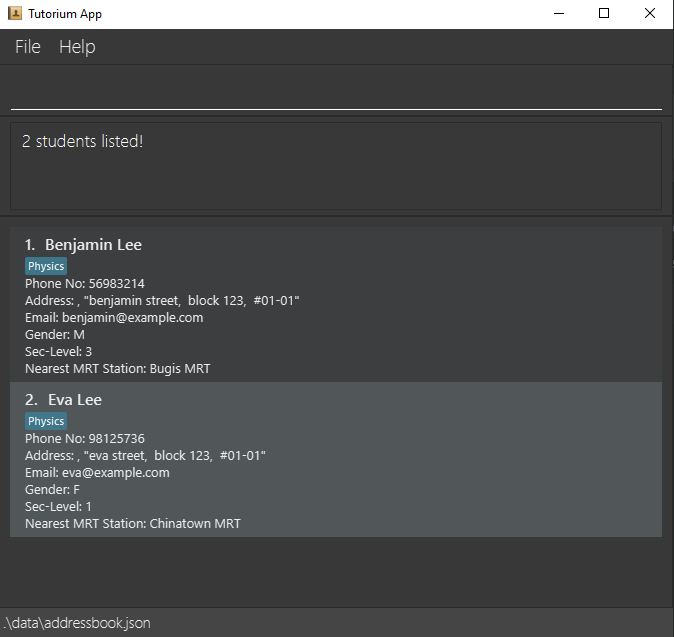
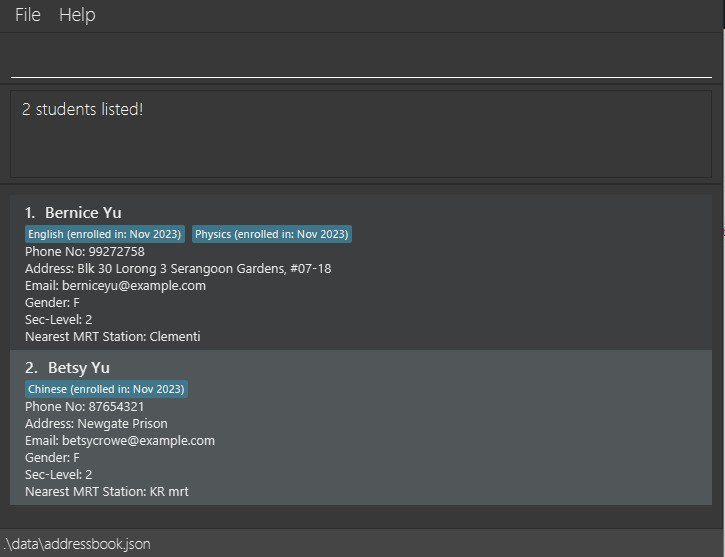
Update UG

Changed region(s): [[0.0, 0.0, 1.0, 1.0], [0.0312, 0.1526, 0.9659, 0.2442], [0.0, 0.9461, 0.2181, 1.0]]

diff --git a/docs/UserGuide.md b/docs/UserGuide.md
@@ -213,7 +213,6 @@ Examples:
 * `add n/John Doe p/12345678 e/johnd@example.com a/John street, block 123, #01-01 g/M l/2 m/KR mrt s/Chemistry s/Physics`
 * `add n/Betsy Crowe p/87654321 e/betsycrowe@example.com a/Newgate Prison g/F l/2 m/KR mrt s/Chinese`
   <br>
-  ![result for 'add n/Betsy Crowe p/87654321 e/betsycrowe@example.com a/Newgate Prison g/F l/2 m/KR mrt s/Mathematics'](images/ug_images/addedResult.png)
 
 [↑ Back to table of contents](#table-of-contents)
 
@@ -240,8 +239,6 @@ Format: `import FILENAME.csv`
 
 Examples:
 * `import student_data.csv`
-  <br>
-  ![result for 'import student_data.csv'](images/ug_images/importResult.png)
 
 [↑ Back to table of contents](#table-of-contents)
 
@@ -262,7 +259,6 @@ Examples:
 *  `edit John Doe n/Joe` edits John Doe's name to "Joe".
 *  `edit 2 n/joey e/joey123@example.com` Edits the student (with index 2)'s name and email to be `joey` and `joey123@example.com` respectively.
    <br>
-   ![result for 'edit John Doe n/Joe'](images/ug_images/editedResult.png)
 
 [↑ Back to table of contents](#table-of-contents)
 
@@ -281,9 +277,9 @@ Format: `search KEYWORD`
   e.g. `Alfred` will return `alfred`, `Alfred Tan`
 
 Examples:
-* `search Lee` returns `Benjamin Lee` and `Eva Lee`<br>
+* `search Yu` returns `Bernice Yu` and `Betsy Yu`<br>
   <br>
-  ![result for 'search Lee'](images/ug_images/searchResult.png)
+  ![result for 'search Yu'](images/ug_images/searchResult.png)
 
 [↑ Back to table of contents](#table-of-contents)
 
@@ -302,7 +298,6 @@ Examples:
 * `delete John Doe`
 * `delete 1`
   <br>
-  ![result for 'delete John Doe'](images/ug_images/deletedResult.png)
 
 [↑ Back to table of contents](#table-of-contents)
 
@@ -322,12 +317,6 @@ Examples:
 * `undolevel` can be performed only when there is / are `uplevel` performed (and has not been undone) since user open application.
 
 Examples: `uplevel`, `undolevel`
-
-  ![before entering 'uplevel'](images/ug_images/beforeUpdate.png)
-
-  ![after entering 'uplevel'](images/ug_images/afterUpdate.png)
-
-  ![after entering 'undolevel'](images/ug_images/undoUpdate.png)
 
 [↑ Back to table of contents](#table-of-contents)
 
@@ -394,6 +383,8 @@ Examples:
 * `table l/` will show a table categorized by student sec level.
 * `table s/` will show a table categorized by student subject.
 * `table d/2023` will show a table categorized by months in year 2023.
+
+    ![result for 'table l/'](images/ug_images/tableResult.png)
 
 [↑ Back to table of contents](#table-of-contents)
 
